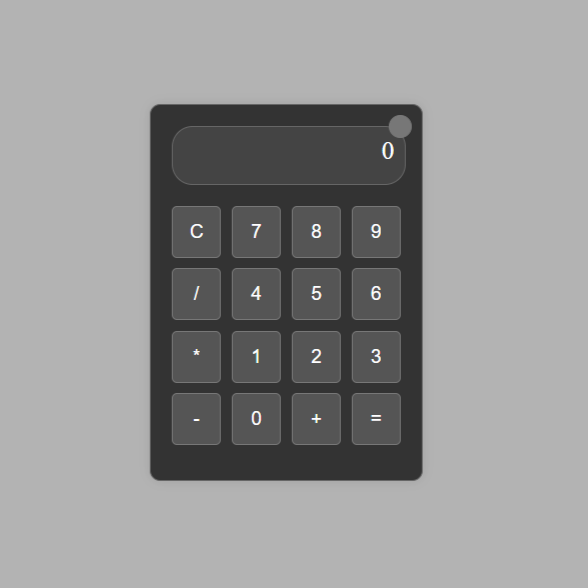
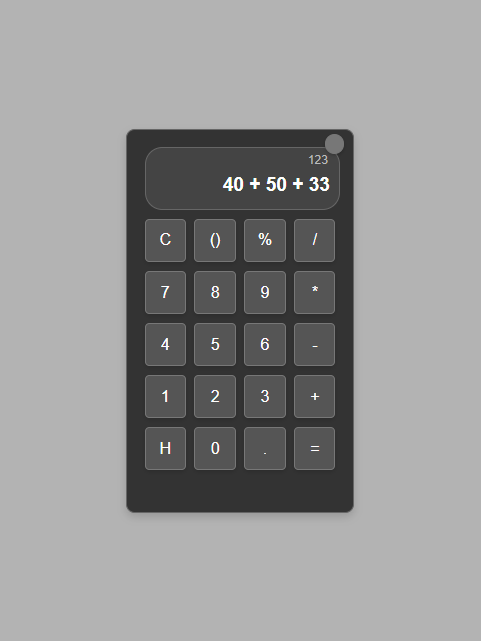
more features added

Changed region(s): [[0.2495, 0.1531, 0.7484, 0.8265]]

diff --git a/index.svelte b/index.svelte
@@ -1,10 +1,18 @@
 <script>
   let displayValue = '0';
-  let firstOperand = null;
-  let operator = null;
+  let liveAnswer = '0'; // Live answer value
   let darkMode = false;
   let showHistory = false;
   let history = [];
+
+  function updateLiveAnswer() {
+    try {
+      let result = eval(displayValue.replace('%', '/100'));
+      liveAnswer = isNaN(result) ? '' : result.toString();
+    } catch {
+      liveAnswer = '';
+    }
+  }
 
   function handleNumberClick(number) {
     if (displayValue === '0') {
@@ -12,47 +20,36 @@
     } else {
       displayValue += number.toString();
     }
+    updateLiveAnswer();
   }
 
   function handleOperatorClick(op) {
-    firstOperand = parseFloat(displayValue);
-    operator = op;
-    displayValue = '0';
+    displayValue += ` ${op} `;
+    updateLiveAnswer();
+  }
+
+  function handleParenthesesClick() {
+    const openCount = (displayValue.match(/\(/g) || []).length;
+    const closeCount = (displayValue.match(/\)/g) || []).length;
+    displayValue += openCount <= closeCount ? '(' : ')';
+    updateLiveAnswer();
   }
 
   function handleEqualsClick() {
-    const secondOperand = parseFloat(displayValue);
-    let result = null;
-
-    switch (operator) {
-      case '+':
-        result = firstOperand + secondOperand;
-        break;
-      case '-':
-        result = firstOperand - secondOperand;
-        break;
-      case '*':
-        result = firstOperand * secondOperand;
-        break;
-      case '/':
-        result = firstOperand / secondOperand;
-        break;
-      default:
-        return;
+    try {
+      let result = eval(displayValue.replace('%', '/100'));
+      history = [`${displayValue} = ${result}`, ...history].slice(0, 5);
+      displayValue = result.toString();
+      liveAnswer = result.toString();
+    } catch {
+      displayValue = 'Error';
+      liveAnswer = '';
     }
-
-    const calculation = `${firstOperand} ${operator} ${secondOperand} = ${result}`;
-    history = [calculation, ...history].slice(0, 5); // Store last 5 calculations
-
-    displayValue = result.toString();
-    firstOperand = null;
-    operator = null;
   }
 
   function handleClearClick() {
     displayValue = '0';
-    firstOperand = null;
-    operator = null;
+    liveAnswer = '0';
     history = [];
   }
 
@@ -67,27 +64,38 @@
 
 <div class="calculator" class:dark={darkMode}>
   <button class="dark-mode-toggle" on:click={toggleDarkMode}></button>
-  <div class="display">{displayValue}</div>
+
+  <div class="display">
+    <div class="live-answer">{liveAnswer}</div>
+    <div class="main-display">{displayValue}</div>
+  </div>
 
   <div class="buttons">
     {#if !showHistory}
       <button on:click={handleClearClick}>C</button>
+      <button on:click={handleParenthesesClick}>()</button>
+      <button on:click={() => handleOperatorClick('%')}>%</button>
+      <button on:click={() => handleOperatorClick('/')}>/</button>
+
       <button on:click={() => handleNumberClick(7)}>7</button>
       <button on:click={() => handleNumberClick(8)}>8</button>
       <button on:click={() => handleNumberClick(9)}>9</button>
-      <button on:click={() => handleOperatorClick('/')}>/</button>
+      <button on:click={() => handleOperatorClick('*')}>*</button>
+
       <button on:click={() => handleNumberClick(4)}>4</button>
       <button on:click={() => handleNumberClick(5)}>5</button>
       <button on:click={() => handleNumberClick(6)}>6</button>
-      <button on:click={() => handleOperatorClick('*')}>*</button>
+      <button on:click={() => handleOperatorClick('-')}>-</button>
+
       <button on:click={() => handleNumberClick(1)}>1</button>
       <button on:click={() => handleNumberClick(2)}>2</button>
       <button on:click={() => handleNumberClick(3)}>3</button>
-      <button on:click={() => handleOperatorClick('-')}>-</button>
-      <button on:click={() => handleNumberClick(0)}>0</button>
       <button on:click={() => handleOperatorClick('+')}>+</button>
+
+      <button on:click={toggleHistory}>H</button>
+      <button on:click={() => handleNumberClick(0)}>0</button>
+      <button on:click={() => handleOperatorClick('.')}>.</button>
       <button on:click={handleEqualsClick}>=</button>
-      <button class="history-toggle" on:click={toggleHistory}>H</button>
     {/if}
 
     {#if showHistory}
@@ -96,7 +104,7 @@
         {#each history as item}
           <p>{item}</p>
         {/each}
-        <button class="history-toggle" on:click={toggleHistory}>Close</button>
+        <button on:click={toggleHistory}>Close</button>
       </div>
     {/if}
   </div>
@@ -104,14 +112,15 @@
 
 <style>
   .calculator {
+    font-family: -apple-system, BlinkMacSystemFont, "SF Pro Display", "SF Pro Text", "Helvetica Neue", Helvetica, Arial, sans-serif;
     width: 220px;
-    height: 350px;
+    height: 400px;
     margin: 20px auto;
     padding: 20px;
     background-color: #f0f0f0;
     border: 1px solid #ccc;
     border-radius: 10px;
-    box-shadow: 0 0 10px rgba(0, 0, 0, 0.1);
+    box-shadow: 0 5px 10px rgba(0, 0, 0, 0.15);
     position: relative;
     transition: background-color 0.5s ease-in-out, border 0.5s ease-in-out;
   }
@@ -123,16 +132,18 @@
 
   .display {
     width: 92%;
-    height: 35px;
-    margin-bottom: 20px;
+    height: 50px;
     padding: 10px;
     background-color: #fff;
     border: 1px solid #ccc;
     border-radius: 20px;
     font-size: 24px;
-    text-align: right;
     position: relative;
     z-index: 1;
+    display: flex;
+    flex-direction: column;
+    justify-content: center;
+    align-items: flex-end;
   }
 
   .calculator.dark .display {
@@ -141,13 +152,33 @@
     color: #fff;
   }
 
+  .live-answer {
+    font-size: 14px;
+    color: #888;
+    position: absolute;
+    top: 5px;
+    right: 12px;
+  }
+
+  .calculator.dark .live-answer {
+    color: #bbb;
+  }
+
+  .main-display {
+    font-size: 22px;
+    font-weight: bold;
+    margin-top: 15px;
+  }
+
   .buttons {
     display: grid;
     grid-template-columns: repeat(4, 1fr);
     grid-gap: 10px;
+    margin-top: 10px;
   }
 
   button {
+    font-family: -apple-system, BlinkMacSystemFont, "SF Pro Display", "SF Pro Text", "Helvetica Neue", Helvetica, Arial, sans-serif;
     width: 100%;
     height: 50px;
     padding: 10px;
@@ -156,7 +187,8 @@
     border-radius: 5px;
     font-size: 18px;
     cursor: pointer;
-    transition: background-color 0.3s ease-in-out;
+    box-shadow: 0 2px 5px rgba(0, 0, 0, 0.15);
+    transition: background-color 0.3s ease-in-out, box-shadow 0.3s ease-in-out;
   }
 
   .calculator.dark button {
@@ -167,10 +199,12 @@
 
   button:hover {
     background-color: #f5f5f5;
+    box-shadow: 0 3px 7px rgba(0, 0, 0, 0.2);
   }
 
   .calculator.dark button:hover {
     background-color: #666;
+    box-shadow: 0 3px 7px rgba(255, 255, 255, 0.2);
   }
 
   .dark-mode-toggle {
@@ -180,40 +214,15 @@
     background-color: grey;
     border: none;
     position: absolute;
-    top: 10px;
+    top: 5px;
     right: 10px;
     cursor: pointer;
     z-index: 2;
+    box-shadow: 0 2px 4px rgba(0, 0, 0, 0.2);
     transition: background-color 0.3s ease-in-out;
   }
 
   .calculator.dark .dark-mode-toggle {
     background-color: #777;
-  }
-
-  .history-toggle {
-    grid-column: span 2;
-    background-color: #ddd;
-  }
-
-  .calculator.dark .history-toggle {
-    background-color: #888;
-  }
-
-  .history-box {
-    grid-column: span 4;
-    background-color: #fff;
-    padding: 10px;
-    border: 1px solid #ccc;
-    border-radius: 5px;
-    font-size: 14px;
-    text-align: center;
-    transition: opacity 0.3s ease-in-out;
-  }
-
-  .calculator.dark .history-box {
-    background-color: #444;
-    border: 1px solid #666;
-    color: #fff;
   }
 </style>
